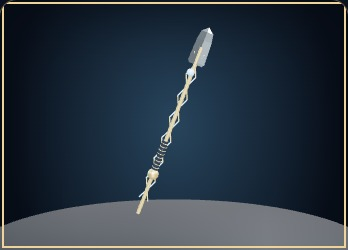
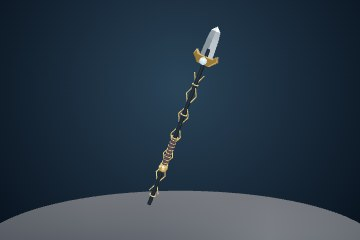
Use real weapon collection photographs, curve laminated bows and compile fractional crowd clips safely

diff --git a/src/world/weapon-model.js b/src/world/weapon-model.js
@@ -3,6 +3,16 @@ import {mergeGeometries} from 'three/addons/utils/BufferGeometryUtils.js';
 import {craftedBladeGeometry} from './weapon-blade.js';
 import {getWeapon} from './arsenal.js';
 
+/** Continuous recurve branches, with the grip at the equipped hand origin. */
+export function craftedBowLimbGeometry(z=0,radius=.027,radialSegments=6){
+ const points=[[.34,-.5],[.24,-.43],[.06,-.27],[0,0],[.06,.28],[.24,.45],[.34,.5]].map(([x,y])=>new T.Vector3(x,y,z));
+ const curve=new T.CatmullRomCurve3(points,false,'centripetal'),segments=36,geometry=new T.TubeGeometry(curve,segments,radius,radialSegments,false),p=geometry.attributes.position;
+ // Wide load-bearing centre, flexible tapered tips. Retain a smooth profile
+ // along the whole branch instead of discrete cylinders meeting at corners.
+ const centre=new T.Vector3();for(let i=0;i<=segments;i++){curve.getPointAt(i/segments,centre);const taper=.56+.44*Math.sin(i/segments*Math.PI);for(let j=0;j<=radialSegments;j++){const v=i*(radialSegments+1)+j;p.setXYZ(v,centre.x+(p.getX(v)-centre.x)*taper,centre.y+(p.getY(v)-centre.y)*taper,centre.z+(p.getZ(v)-centre.z)*taper);}}
+ geometry.computeVertexNormals();geometry.computeBoundingBox();geometry.computeBoundingSphere();geometry.userData.bowEndpoints=[points[0].toArray(),points.at(-1).toArray()];return geometry;
+}
+
 /** The same physical assembly is used in the traveller's hand and the armory.
  * Static fittings are merged by material; only articulated parts stay separate. */
 export function fitWeapon(model,avatar={}){
@@ -38,12 +48,18 @@ export function fitWeapon(model,avatar={}){
   const o=panel(points,steel,x,y,0,.023,.004);o.rotation.z=rotation;return o;
  }
  function bow(double=false){
-  grip(.3,.24,.03);
-  const points=[[0,-.2],[-.1,-.13],[-.28,.03],[-.34,.3],[-.28,.58],[-.1,.75],[0,.8]];
-  const limbs=(z=0)=>{for(let i=1;i<points.length;i++)rod(...points[i-1],z,...points[i],z,.022,i%2?gold:dark);rod(0,-.2,z,0,.8,z,.0028,light);};
+  const wood=material({color:'#50382b',metalness:.04,roughness:.66,clearcoat:.14});wood.name='laminated-bow-wood';
+  grip(0,.24,.032);
+  const limbs=(z=0)=>{
+   mesh(craftedBowLimbGeometry(z),wood);mesh(craftedBowLimbGeometry(z+.022,.005,4),gold);
+   rod(.34,-.5,z+.042,.34,.5,z+.042,.0028,light);
+   for(const side of [-1,1]){mesh(new T.SphereGeometry(.02,8,6),gold,.34,side*.5,z);rod(.34,side*.5,z,.305,side*.48,z,.01,gold);rod(.34,side*.5,z,.34,side*.5,z+.042,.006,gold);}
+  };
   limbs();if(double)limbs(-.075);
-  rod(-.35,.3,.015,.4,.3,.015,.006,steel);panel([[.0,-.019],[.095,0],[.0,.019],[.018,0]],steel,.38,.3,.015,.012,.002);
-  for(const side of [-1,1])panel([[-.055,0],[0,.08],[.055,0],[0,-.03]],gold,-.27,.3+side*.26,.03,.012,.003);
+  // The nock crosses the string at mid-height; the shaft passes over the grip.
+  rod(-.01,0,.042,.74,0,.042,.006,steel);panel([[.0,-.019],[.095,0],[.0,.019],[.018,0]],steel,.72,0,.042,.012,.002);
+  for(const side of [-1,1])panel([[-.055,0],[0,.06],[.055,0],[0,-.025]],gold,.035,side*.26,.031,.012,.003);
+  if(double)for(const y of [-.09,.09])rod(0,y,0,0,y,-.075,.013,gold);
  }
  // Signature transformations change the physical silhouette, not only the tint.
  if(w.kind==='Bouclier'){
@@ -99,7 +115,7 @@ export function fitWeapon(model,avatar={}){
  if(tier===3){for(let i=0;i<6;i++){const a=i*Math.PI/3;panel([[-.013,0],[0,.075],[.013,0],[0,-.025]],gold,Math.sin(a)*.31,.36+Math.cos(a)*.31,.02,.012,.002);}}
  // One mesh per static material replaces the original dozens of fitting draws.
  const batches=new Map();for(const o of staticPieces){o.updateMatrix();const g=o.geometry.index?o.geometry.toNonIndexed():o.geometry.clone();g.applyMatrix4(o.matrix);if(!batches.has(o.material))batches.set(o.material,[]);batches.get(o.material).push(g);o.removeFromParent();}
- for(const [m,parts] of batches){const geometry=mergeGeometries(parts,false);parts.forEach(g=>g.dispose());if(!geometry)continue;ownedGeo.add(geometry);const o=new T.Mesh(geometry,m);o.castShadow=o.receiveShadow=true;o.name='weapon-assembly-'+(['steel','bronze','dark','leather','inlay'][[steel,gold,dark,leather,light].indexOf(m)]);root.add(o);}
+ for(const [m,parts] of batches){const geometry=mergeGeometries(parts,false);parts.forEach(g=>g.dispose());if(!geometry)continue;ownedGeo.add(geometry);const o=new T.Mesh(geometry,m);o.castShadow=o.receiveShadow=true;o.name='weapon-assembly-'+(['steel','bronze','dark','leather','inlay'][[steel,gold,dark,leather,light].indexOf(m)]||m.name||'fitting');root.add(o);}
  // Source fittings no longer need their temporary geometry after the merge.
  for(const o of staticPieces){ownedGeo.delete(o.geometry);o.geometry.dispose();}
  model.updateMatrixWorld(true);const hand=model.getObjectByName('hand_r');

diff --git a/src/world/crowd-human-model.js b/src/world/crowd-human-model.js
@@ -100,10 +100,10 @@ export async function bakeCrowdHuman(asset,options={}){
 export function crowdHumanMaterial(baked,walkTime,walkActive){
  const material=new THREE.MeshStandardMaterial({color:'#ffffff',map:baked.map,side:THREE.DoubleSide,roughness:.84,metalness:0,envMapIntensity:.18});
  material.onBeforeCompile=shader=>{
-  Object.assign(shader.uniforms,{crowdWalkTime:walkTime,crowdWalkActive:walkActive,crowdPositionAtlas:{value:baked.bakedPositions},crowdNormalAtlas:{value:baked.bakedNormals}});
-  const prelude=`attribute float crowdVertexId;attribute float crowdTintClass;attribute float crowdPhase;attribute float crowdSpeed;attribute vec3 crowdSkin;attribute vec3 crowdCloth;attribute vec3 crowdHair;uniform float crowdWalkTime;uniform float crowdWalkActive;uniform sampler2D crowdPositionAtlas;uniform sampler2D crowdNormalAtlas;varying vec3 crowdSurfaceTint;varying float crowdPreserveColor;
+  Object.assign(shader.uniforms,{crowdWalkTime:walkTime,crowdWalkActive:walkActive,crowdClipDuration:{value:baked.duration},crowdPositionAtlas:{value:baked.bakedPositions},crowdNormalAtlas:{value:baked.bakedNormals}});
+  const prelude=`attribute float crowdVertexId;attribute float crowdTintClass;attribute float crowdPhase;attribute float crowdSpeed;attribute vec3 crowdSkin;attribute vec3 crowdCloth;attribute vec3 crowdHair;uniform float crowdWalkTime;uniform float crowdWalkActive;uniform float crowdClipDuration;uniform sampler2D crowdPositionAtlas;uniform sampler2D crowdNormalAtlas;varying vec3 crowdSurfaceTint;varying float crowdPreserveColor;
    vec3 crowdFetch(sampler2D atlas,float frame){float row=floor(crowdVertexId/${baked.width}.);return texture2D(atlas,vec2((mod(crowdVertexId,${baked.width}.)+.5)/${baked.width}.,(frame*${baked.rows}.+row+.5)/${baked.textureHeight}.)).xyz;}
-   vec3 crowdAnimated(sampler2D atlas){float frame=fract(crowdPhase+crowdWalkTime*crowdSpeed/${baked.duration}.*crowdWalkActive)*${baked.frames}.;return mix(crowdFetch(atlas,floor(frame)),crowdFetch(atlas,mod(floor(frame)+1.,${baked.frames}.)),fract(frame));}
+   vec3 crowdAnimated(sampler2D atlas){float frame=fract(crowdPhase+crowdWalkTime*crowdSpeed/crowdClipDuration*crowdWalkActive)*${baked.frames}.;return mix(crowdFetch(atlas,floor(frame)),crowdFetch(atlas,mod(floor(frame)+1.,${baked.frames}.)),fract(frame));}
   `;
   shader.vertexShader=prelude+shader.vertexShader;
   shader.vertexShader=shader.vertexShader.replace('#include <beginnormal_vertex>',`#include <beginnormal_vertex>\nobjectNormal=normalize(crowdAnimated(crowdNormalAtlas));`);

diff --git a/tests/ambient-crowd-craft.test.js b/tests/ambient-crowd-craft.test.js
@@ -1,6 +1,6 @@
 import test from 'node:test';import assert from 'node:assert/strict';import * as THREE from 'three';
 import {createAmbientCrowd} from '../src/world/ambient-crowd.js';
-import {bakeCrowdHuman} from '../src/world/crowd-human-model.js';
+import {bakeCrowdHuman,crowdHumanMaterial} from '../src/world/crowd-human-model.js';
 import {loadShippedCrowdFixture} from './crowd-glb-fixture.js';
 const items=[{type:'hubBuilding'}],options={mode:'detail',viewport:1280,deviceMemory:8,groundY:()=>7},assetPromise=loadShippedCrowdFixture();
 
@@ -39,4 +39,14 @@ test('both shipped body models retain bounded mobile population and actual camer
   const near=crowd.diagnostics.triangles;camera.position={x:3000,z:3000};crowd.tick(1,{x:0,z:0},1000);assert.ok(crowd.diagnostics.triangles<near);
   assert.ok(crowd.diagnostics.models.every(model=>model.animationBytes<1600000));
  }finally{crowd.dispose();}
+});
+
+test('the shipped fractional clip duration is a shader uniform with no invalid numeric literal',async()=>{
+ const baked=await bakeCrowdHuman(await assetPromise),material=crowdHumanMaterial(baked,{value:0},{value:1});
+ try{
+  assert.ok(baked.duration>0&&!Number.isInteger(baked.duration));
+  const shader={uniforms:{},vertexShader:'#include <beginnormal_vertex>\n#include <begin_vertex>',fragmentShader:'#include <map_fragment>'};material.onBeforeCompile(shader);
+  assert.equal(shader.uniforms.crowdClipDuration.value,baked.duration);assert.match(shader.vertexShader,/uniform float crowdClipDuration/);assert.match(shader.vertexShader,/crowdSpeed\/crowdClipDuration/);
+  assert.doesNotMatch(shader.vertexShader,/\d+\.\d+\./,'fractional JavaScript durations cannot form invalid GLSL literals');
+ }finally{material.dispose();baked.dispose();}
 });

diff --git a/tests/weapon-crafted-forms.test.js b/tests/weapon-crafted-forms.test.js
@@ -25,3 +25,15 @@ test('assembly disposal releases each owned GPU resource once and retains the ch
 test('physical detail does not mutate immutable arsenal data or alter combat reach',()=>{
  for(const w of WEAPONS){const before=JSON.stringify(w),attack=weaponAction(ACTIONS.light,{weapon:w.id,weaponForm:3},1000),{model}=holder(),weapon=fitWeapon(model,{weapon:w.id,weaponForm:3});weapon.update(3,{detached:1});weapon.dispose();assert.equal(JSON.stringify(w),before);assert.deepEqual(weaponAction(ACTIONS.light,{weapon:w.id,weaponForm:3},1000),attack);}
 });
+
+test('recurved bow uses a continuous tapered limb with smooth tangents and supported string tips',async()=>{
+ const {craftedBowLimbGeometry}=await import('../src/world/weapon-model.js'),g=craftedBowLimbGeometry();
+ try{
+  const p=g.attributes.position,rows=37,radials=6,centres=[];
+  for(let row=0;row<rows;row++){const centre=new T.Vector3();for(let j=0;j<radials;j++)centre.add(new T.Vector3().fromBufferAttribute(p,row*(radials+1)+j));centre.divideScalar(radials);centres.push(centre);}
+  assert.ok(centres[0].distanceTo(new T.Vector3(.34,-.5,0))<1e-6);assert.ok(centres.at(-1).distanceTo(new T.Vector3(.34,.5,0))<1e-6);
+  assert.ok(centres[18].x<.002,'The actual leather grip meets the centre of the branch');
+  const directions=centres.slice(1).map((c,i)=>c.clone().sub(centres[i]).normalize());for(let i=1;i<directions.length;i++)assert.ok(directions[i].angleTo(directions[i-1])<.25,'The recurve has no angular cylinder junctions');
+  const radius=row=>new T.Vector3().fromBufferAttribute(p,row*(radials+1)).distanceTo(centres[row]);assert.ok(radius(0)<radius(18)*.6,'Tips taper while the grip remains load-bearing');assert.ok(g.index.count/3<=432);
+ }finally{g.dispose();}
+});

diff --git a/src/world/origins/creator.css b/src/world/origins/creator.css
@@ -19,6 +19,6 @@
 
 .armory select{width:100%;min-height:44px;padding:10px 12px;border:1px solid #8b7447;border-radius:9px;background:#101d2b;color:#efdfc2;font:inherit;box-sizing:border-box}.arsenal-tabs button{min-height:44px;padding:10px 12px;border-radius:9px;color:#efdfc2;font:inherit;font-size:13px;line-height:1.35}.arsenal-tabs button[aria-pressed=true]{background:#28333b;border-color:#e4c285;box-shadow:inset 0 0 0 1px #e4c285}.arsenal-tabs button:focus-visible,.armory select:focus-visible{outline:2px solid #efd399;outline-offset:2px}
 
-.weapon-tile{display:block;width:100%;overflow:hidden;border-radius:9px;background:#101e2a;aspect-ratio:1.4}.weapon-tile img{display:block;width:100%;height:100%;object-fit:contain}.armory-grid .weapon-tile>.weapon-emblem{height:100%;width:100%}
+.weapon-tile{display:block;width:100%;overflow:hidden;border-radius:9px;background:#101e2a;aspect-ratio:1.5}.weapon-tile img{display:block;width:100%;height:100%;object-fit:contain}.armory-grid .weapon-tile>.weapon-emblem{height:100%;width:100%}
 
 .weapon-evolution-image{display:block;width:100%;aspect-ratio:1.5;border-radius:7px;overflow:hidden;background:#101c2a}.weapon-evolution-image img{display:block;width:100%;height:100%;object-fit:contain}.arsenal-evolutions button:disabled .weapon-evolution-image{filter:saturate(.45)}.arsenal-evolutions button[aria-pressed=true]{border-color:#ebca7d;box-shadow:inset 0 0 0 1px #ebca7d}.weapon-evolution-image .weapon-emblem{width:100%;height:100%}

diff --git a/src/world/origins/WeaponTile.jsx b/src/world/origins/WeaponTile.jsx
@@ -4,5 +4,5 @@ import WeaponEmblem from './WeaponEmblem.jsx';
 /** Still renders of the same equipped models; no extra WebGL contexts in the grid. */
 export default function WeaponTile({weapon}){
  const [failed,setFailed]=useState(false);
- return <span className="weapon-tile" aria-hidden="true">{failed?<WeaponEmblem weapon={weapon}/>:<img src={'/world/weapon-studio/'+weapon.id+'.jpg'} alt="" width="350" height="250" loading="lazy" decoding="async" onError={()=>setFailed(true)}/>}</span>;
+ return <span className="weapon-tile" aria-hidden="true">{failed?<WeaponEmblem weapon={weapon}/>:<img src={'/world/weapon-studio/'+weapon.id+'.jpg'} alt="" width="360" height="240" loading="lazy" decoding="async" onError={()=>setFailed(true)}/>}</span>;
 }
